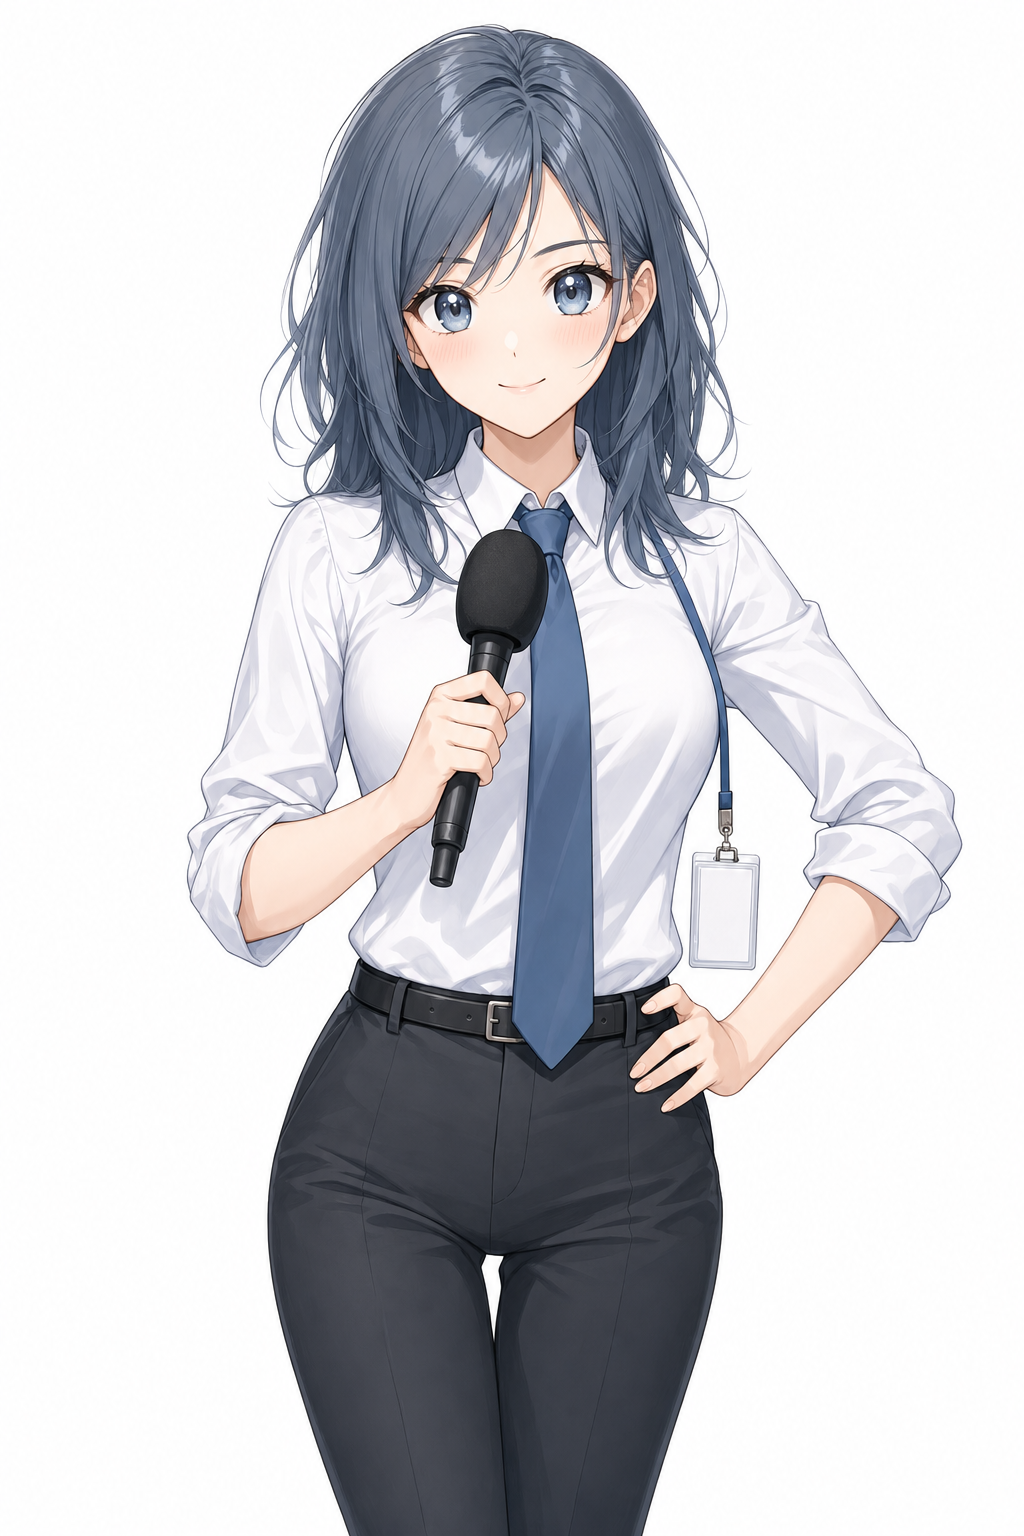
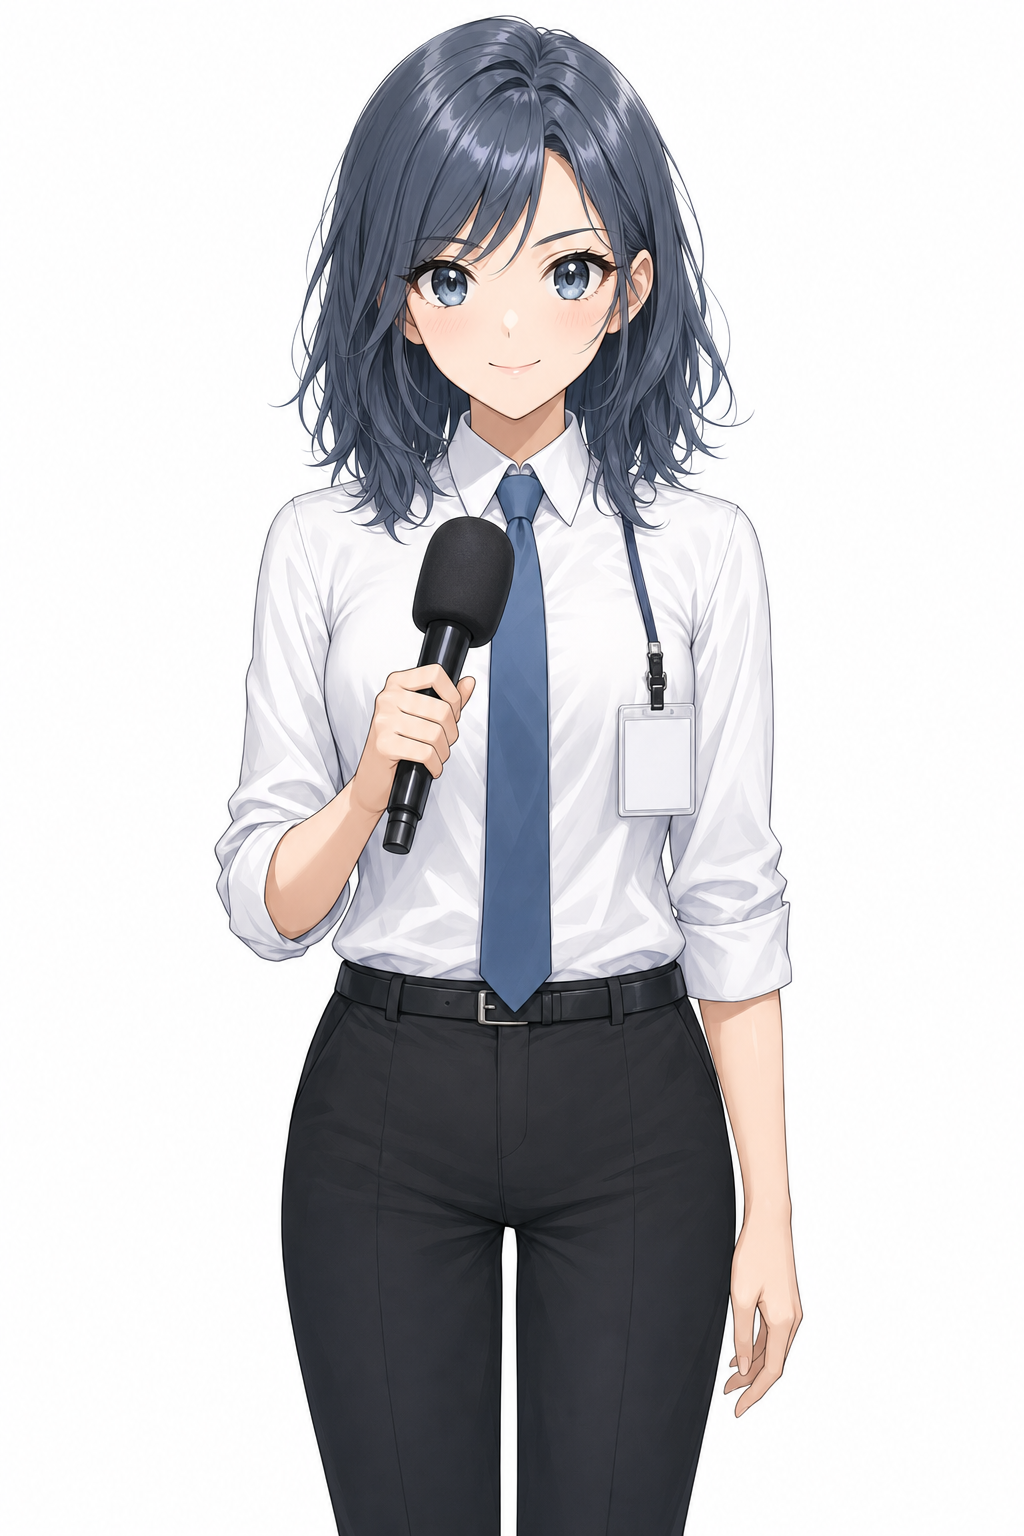
fix: 레이 초안을 정면 직립 자세로 교체
기존 시안은 짝다리에 손을 허리에 얹은 자세였다. 리그 파츠(머리/몸통/팔/얼굴)로
분해해 쓰려면 좌우가 대칭이고 팔이 몸에서 떨어져 있어야 해서, 어깨·골반 수평의
정면 직립본으로 바꿨다.

같은 이유로 소품 선 규칙을 스펙에 추가한다. 마이크 케이블과 긴 랜야드 줄이 몸을
가로지르면 레이어를 갈라낼 때 선이 계속 걸리므로, 무선 마이크와 짧은 랜야드로
고정한다.

Changed region(s): [[0.1875, 0.0, 0.9375, 1.0], [0.3125, 0.9375, 0.3438, 1.0]]

diff --git a/CHARACTERS-REPORTERS-DRAFT.md b/CHARACTERS-REPORTERS-DRAFT.md
@@ -63,10 +63,12 @@
   보여야 시그니처 컬러가 성립한다.
 - **소품**: 폼 윈드스크린 달린 **핸드헬드 스틱 마이크**(가슴 높이).
 - **프레이밍**: 현장 담당이므로 흉상이 아니라 **머리~허벅지 반신, 스탠딩**.
-  **자세는 정면 직립**(짝다리·손 허리 포즈 아님) — 리그 파츠로 분해할 때 좌우 대칭이 필요하다.
+  **자세는 정면 직립** — 어깨·골반 수평, 고개 기울임 없음, 양발 균등, 마이크 든 팔 외
+  나머지 팔은 자연스럽게 내림. 짝다리·손 허리 포즈는 쓰지 않는다(리그 파츠 분해 시 좌우 대칭 필요).
+- **소품 선 최소화**: 마이크 케이블·랜야드 줄이 몸을 가로지르면 레이어 분리가 어려워진다.
+  **무선 마이크 + 짧은 랜야드**로 선이 겹치지 않게 한다.
 - **말투**: 낮고 안정된 톤, 짧고 단정한 문장, 결론부터.
-- **상태**: 초안 `public/host/draft/rei.png` (= rei-v6-b).
-  단 현재 파일은 짝다리 + 손 허리 자세 → **정면 직립본으로 교체 예정**.
+- **상태**: 초안 `public/host/draft/rei.png` (= rei-v7-a, 정면 직립).
 
 ### 레이 제작 노트
 
@@ -107,7 +109,7 @@
 
 - [ ] 이름 확정 (미아 / 레이)
 - [x] 레이 헤어 길이 확정 — 어깨선 레이어드 중단발
-- [ ] 레이 자세를 정면 직립으로 재생성 후 `rei.png` 교체
+- [x] 레이 자세 확정 — 정면 직립 (rei-v7-a)
 - [ ] 확정 시안으로 베이스 PNG 재생성 — 스튜디오 캐릭터는 로지와 동일 캔버스 600×911,
       현장 캐릭터(레이)는 반신이라 별도 캔버스 규격 필요
 - [ ] 리그 파츠 세트 (`HOST-RIG-PARTS.md` 규격: blink / expr 8종 / mouth 7종) — 이때 레이 눈 크기 보정
